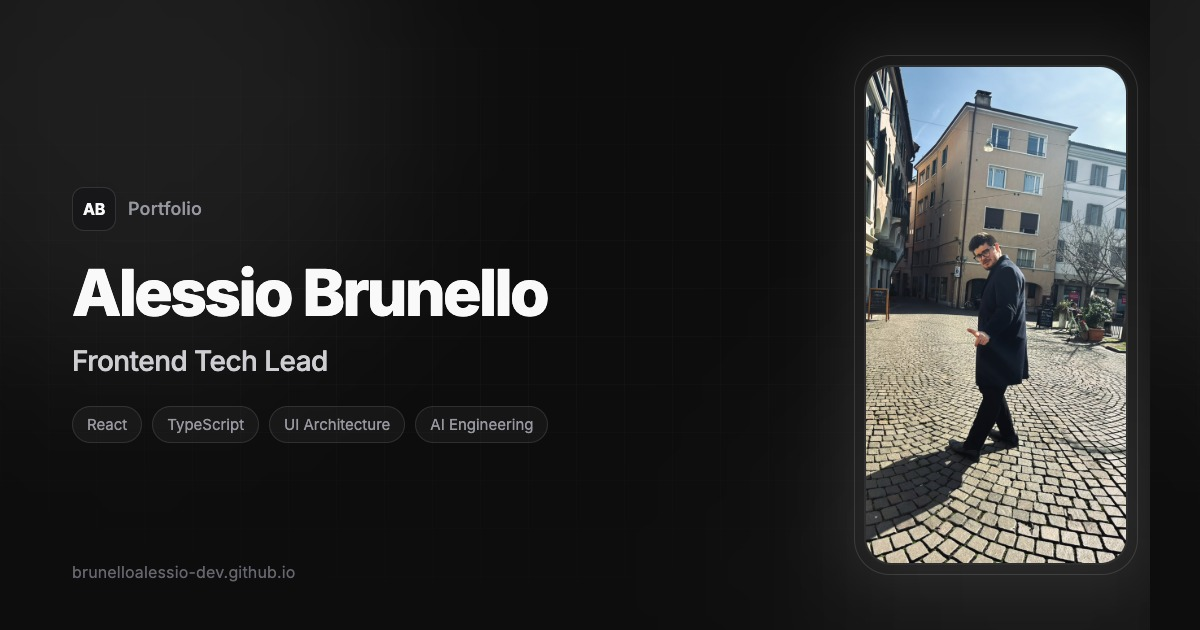
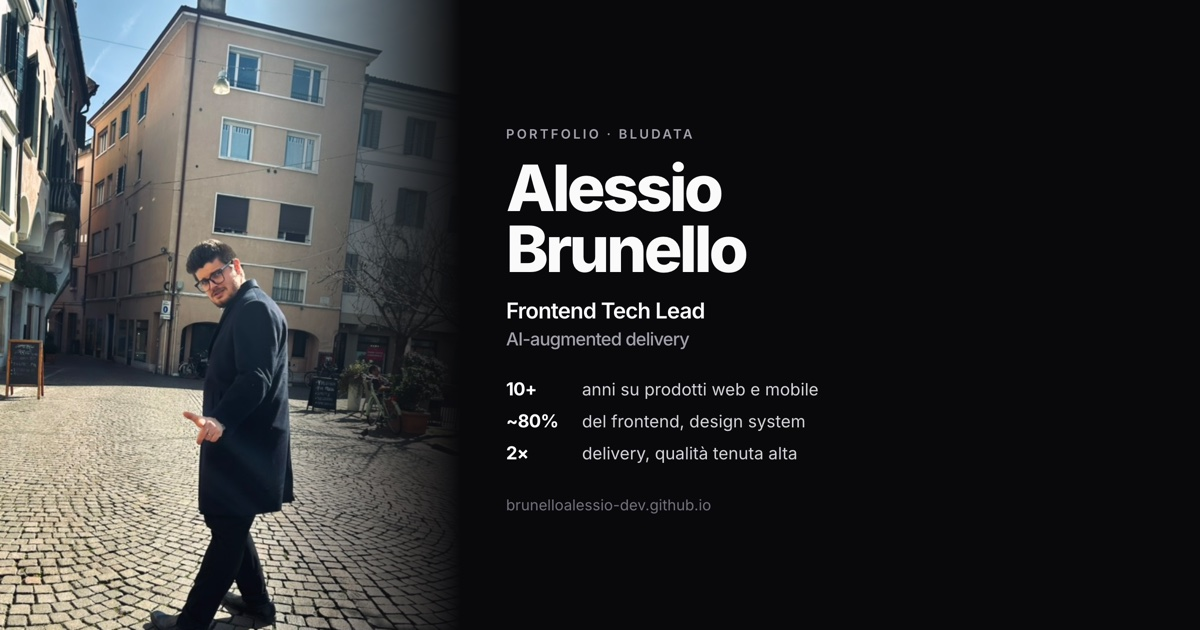
Refresh the social preview so shared links show the current role and impact.

diff --git a/scripts/og-card.html b/scripts/og-card.html
@@ -15,193 +15,122 @@
         margin: 0;
         padding: 0;
       }
+      html,
       body {
-        background: #111;
-        min-height: 100vh;
-        display: grid;
-        place-items: center;
+        width: 1200px;
+        height: 630px;
+        overflow: hidden;
+        background: #09090b;
         font-family: Inter, ui-sans-serif, system-ui, sans-serif;
+        color: #fafafa;
+        -webkit-font-smoothing: antialiased;
       }
       .card {
         width: 1200px;
         height: 630px;
-        position: relative;
-        overflow: hidden;
-        background: #09090b;
-        color: #fafafa;
-      }
-      .glow-a {
-        position: absolute;
-        width: 520px;
-        height: 520px;
-        left: -120px;
-        top: -160px;
-        border-radius: 999px;
-        background: rgba(255, 255, 255, 0.07);
-        filter: blur(80px);
-      }
-      .glow-b {
-        position: absolute;
-        width: 480px;
-        height: 480px;
-        right: -80px;
-        bottom: -180px;
-        border-radius: 999px;
-        background: rgba(255, 255, 255, 0.05);
-        filter: blur(90px);
-      }
-      .grid {
-        position: absolute;
-        inset: 0;
-        background-image:
-          linear-gradient(rgba(255, 255, 255, 0.03) 1px, transparent 1px),
-          linear-gradient(90deg, rgba(255, 255, 255, 0.03) 1px, transparent 1px);
-        background-size: 48px 48px;
-        mask-image: radial-gradient(ellipse at 40% 50%, black 20%, transparent 70%);
-        opacity: 0.5;
-      }
-      .content {
-        position: relative;
-        z-index: 1;
-        height: 100%;
         display: grid;
-        grid-template-columns: 1.15fr 0.85fr;
-        padding: 64px 72px;
-        gap: 40px;
-        align-items: center;
-      }
-      .brand {
-        display: inline-flex;
-        align-items: center;
-        gap: 12px;
-        margin-bottom: 28px;
-      }
-      .mark {
-        width: 44px;
-        height: 44px;
-        border-radius: 12px;
-        background: #18181b;
-        border: 1px solid rgba(255, 255, 255, 0.12);
-        display: grid;
-        place-items: center;
-        font-weight: 700;
-        font-size: 16px;
-        letter-spacing: -0.02em;
-      }
-      .brand-name {
-        font-size: 18px;
-        font-weight: 500;
-        color: #a1a1aa;
-        letter-spacing: 0.01em;
-      }
-      h1 {
-        font-size: 64px;
-        line-height: 1.05;
-        font-weight: 800;
-        letter-spacing: -0.04em;
-        margin-bottom: 18px;
-      }
-      .role {
-        font-size: 28px;
-        font-weight: 500;
-        color: #d4d4d8;
-        letter-spacing: -0.02em;
-        margin-bottom: 28px;
-      }
-      .tags {
-        display: flex;
-        flex-wrap: wrap;
-        gap: 10px;
-      }
-      .tag {
-        font-size: 15px;
-        color: #a1a1aa;
-        border: 1px solid rgba(255, 255, 255, 0.1);
-        background: rgba(255, 255, 255, 0.04);
-        border-radius: 999px;
-        padding: 8px 14px;
-      }
-      .photo-wrap {
-        justify-self: end;
-        align-self: center;
-        position: relative;
-        /* Same aspect as photo.jpg (644×1220) so nothing is cropped */
-        width: 264px;
-        height: 500px;
-      }
-      .photo-ring {
-        position: absolute;
-        inset: -10px;
-        border-radius: 36px;
-        border: 1px solid rgba(255, 255, 255, 0.12);
-      }
-      .photo-aura {
-        position: absolute;
-        inset: -24px;
-        border-radius: 48px;
-        background: rgba(255, 255, 255, 0.08);
-        filter: blur(28px);
-      }
-      .photo-frame {
-        position: relative;
-        width: 100%;
-        height: 100%;
-        overflow: hidden;
-        border-radius: 28px;
-        border: 2px solid rgba(255, 255, 255, 0.14);
+        grid-template-columns: 470px 1fr;
         background: #09090b;
+        overflow: hidden;
       }
       .photo {
-        display: block;
+        position: relative;
+        overflow: hidden;
+      }
+      .photo img {
         width: 100%;
         height: 100%;
         object-fit: cover;
-        object-position: center center;
+        object-position: center 22%;
+        display: block;
+      }
+      .photo::after {
+        content: "";
+        position: absolute;
+        inset: 0;
+        background: linear-gradient(90deg, transparent 55%, #09090b 98%);
+      }
+      .copy {
+        position: relative;
+        padding: 58px 60px 48px 36px;
+        display: flex;
+        flex-direction: column;
+        justify-content: center;
+      }
+      .eyebrow {
+        font-size: 13px;
+        font-weight: 600;
+        letter-spacing: 0.18em;
+        text-transform: uppercase;
+        color: #a1a1aa;
+      }
+      h1 {
+        margin-top: 16px;
+        font-size: 64px;
+        line-height: 0.95;
+        letter-spacing: -0.05em;
+        font-weight: 800;
+      }
+      .role {
+        margin-top: 18px;
+        font-size: 22px;
+        font-weight: 600;
+        letter-spacing: -0.03em;
+      }
+      .role span {
+        display: block;
+        margin-top: 4px;
+        font-weight: 500;
+        color: #a1a1aa;
+        font-size: 18px;
+      }
+      ul {
+        list-style: none;
+        margin-top: 28px;
+        display: flex;
+        flex-direction: column;
+        gap: 10px;
+      }
+      li {
+        display: flex;
+        align-items: baseline;
+        gap: 12px;
+        font-size: 17px;
+        color: #d4d4d8;
+      }
+      li b {
+        color: #fff;
+        font-size: 18px;
+        font-weight: 700;
+        letter-spacing: -0.03em;
+        min-width: 64px;
       }
       .url {
-        position: absolute;
-        left: 72px;
-        bottom: 48px;
-        z-index: 1;
-        font-size: 16px;
+        margin-top: 32px;
+        font-size: 15px;
         color: #71717a;
-        letter-spacing: 0.01em;
       }
     </style>
   </head>
   <body>
     <div class="card" id="og-card">
-      <div class="glow-a"></div>
-      <div class="glow-b"></div>
-      <div class="grid"></div>
-      <div class="content">
-        <div>
-          <div class="brand">
-            <div class="mark">AB</div>
-            <div class="brand-name">Portfolio</div>
-          </div>
-          <h1>Alessio Brunello</h1>
-          <p class="role">Frontend Tech Lead</p>
-          <div class="tags">
-            <span class="tag">React</span>
-            <span class="tag">TypeScript</span>
-            <span class="tag">UI Architecture</span>
-            <span class="tag">AI Engineering</span>
-          </div>
-        </div>
-        <div class="photo-wrap">
-          <div class="photo-aura"></div>
-          <div class="photo-ring"></div>
-          <div class="photo-frame">
-            <img
-              class="photo"
-              src="../public/photo.jpg"
-              alt="Alessio Brunello"
-            />
-          </div>
-        </div>
+      <div class="photo">
+        <img src="../public/photo.jpg" alt="Alessio Brunello" />
       </div>
-      <div class="url">brunelloalessio-dev.github.io</div>
+      <div class="copy">
+        <div class="eyebrow">Portfolio · Bludata</div>
+        <h1>Alessio<br />Brunello</h1>
+        <p class="role">
+          Frontend Tech Lead
+          <span>AI-augmented delivery</span>
+        </p>
+        <ul>
+          <li><b>10+</b> anni su prodotti web e mobile</li>
+          <li><b>~80%</b> del frontend, design system</li>
+          <li><b>2×</b> delivery, qualità tenuta alta</li>
+        </ul>
+        <div class="url">brunelloalessio-dev.github.io</div>
+      </div>
     </div>
   </body>
 </html>
